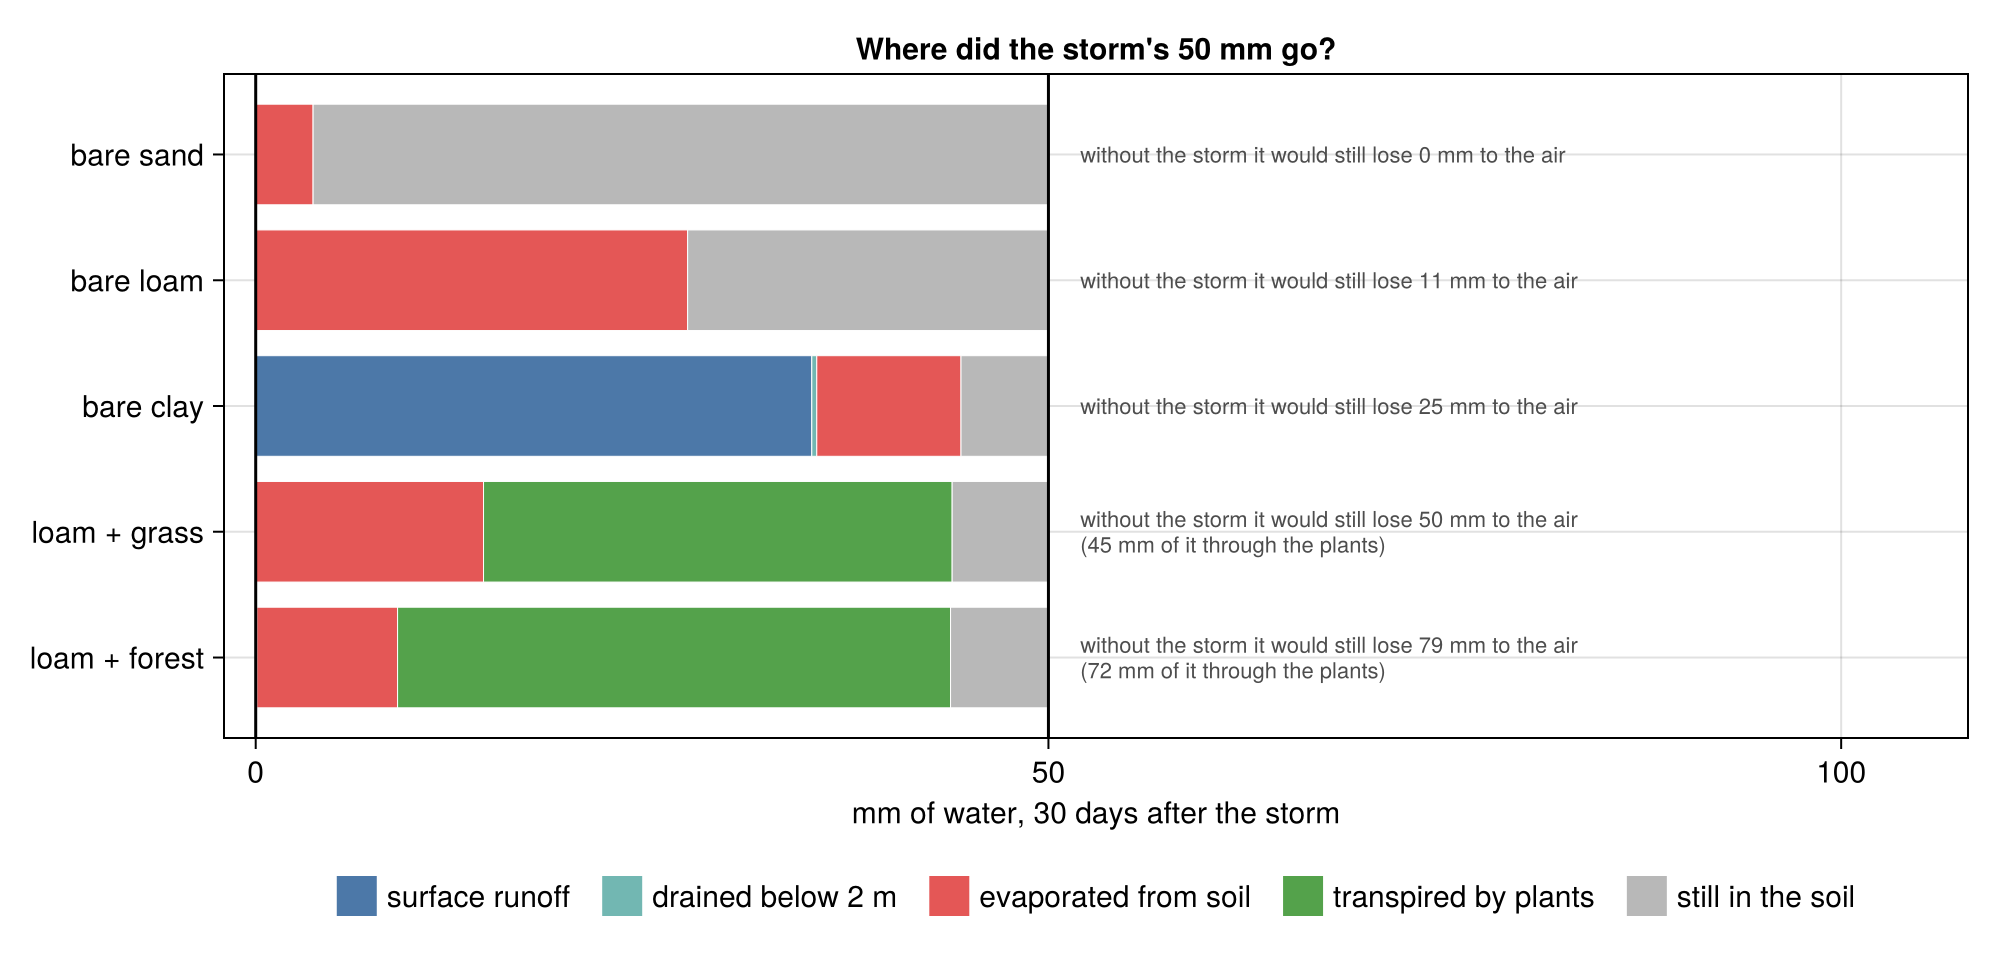
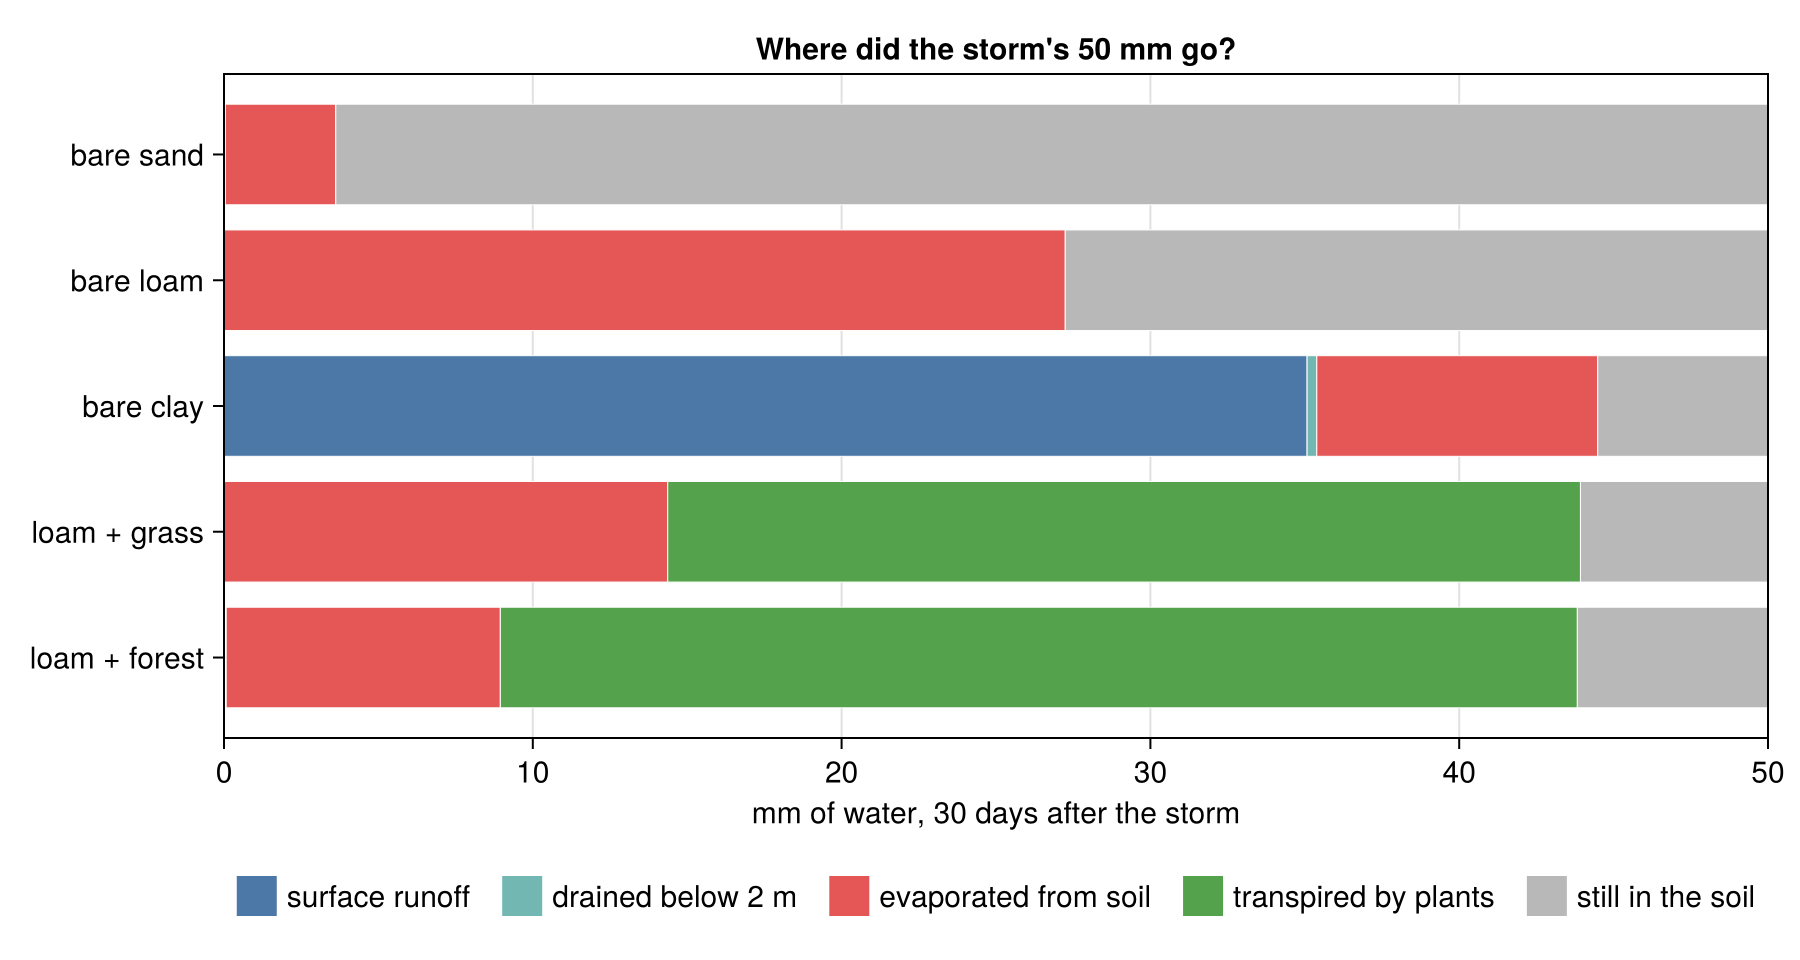
Blog draft: budget figure shows only the storm's 50 mm
Drop the no-storm annotations from the budget figure and set its axis to
0-50 mm; the control numbers stay in the prose. Fix the HTML builder so
caption lead-ins render as bold instead of escaped tags.

Claude-Session: https://claude.ai/code/session_013tJ7zMzUFqybVys5N6Dj6r

diff --git a/experiments/blog/rain_columns/blog.html b/experiments/blog/rain_columns/blog.html
@@ -86,7 +86,7 @@ hr{border:0;border-top:1px solid var(--rule);margin:48px 0;}
 <div class="wide">
 <figure>
   <img src="figs/rain_columns.gif" alt="Animation of five soil columns over 30 days after a 50 mm storm: bare sand, bare loam, bare clay, loam with grass, and loam with a forest. Color shows soil water content; blue above the clay column grows with surface runoff; red arrows show water returned to the air.">
-  <figcaption>&lt;b&gt;The same storm on five columns.&lt;/b&gt; Each column is two meters of soil, colored by water content, simulated hour by hour with ClimaLand for thirty days after a 50 mm storm that falls between midnight and noon on day 1. Blue above a column is water that ran off and has left the column; the bar below is what drained out of the bottom; the red arrow is the water returned to the air by evaporation and transpiration over the last 24 hours. Roots are schematic. The weather is idealized and identical for all five: 19 to 31 °C, 50 percent relative humidity, clear skies once the storm has passed.</figcaption>
+  <figcaption><b>The same storm on five columns.</b> Each column is two meters of soil, colored by water content, simulated hour by hour with ClimaLand for thirty days after a 50 mm storm that falls between midnight and noon on day 1. Blue above a column is water that ran off and has left the column; the bar below is what drained out of the bottom; the red arrow is the water returned to the air by evaporation and transpiration over the last 24 hours. Roots are schematic. The weather is idealized and identical for all five: 19 to 31 °C, 50 percent relative humidity, clear skies once the storm has passed.</figcaption>
 </figure>
 </div>
 
@@ -105,7 +105,7 @@ hr{border:0;border-top:1px solid var(--rule);margin:48px 0;}
 <div class="wide">
 <figure>
   <img src="figs/hovmoller.png" alt="Three panels of soil water content versus depth and time for bare sand, bare loam, and bare clay after a 50 mm storm.">
-  <figcaption>&lt;b&gt;Water content through depth and time&lt;/b&gt; in the three bare columns. Each title gives the fate of the storm's 50 mm (the small remainder drained out of the bottom), computed as the storm run minus the no-storm run. In sand the wetting front races downward and the surface is dry within hours. In loam the front reaches about 40 cm on the first day and then spreads slowly deeper while the surface dries. In clay the surface cannot admit rain at 4 mm per hour, so most of it runs off.</figcaption>
+  <figcaption><b>Water content through depth and time</b> in the three bare columns. Each title gives the fate of the storm's 50 mm (the small remainder drained out of the bottom), computed as the storm run minus the no-storm run. In sand the wetting front races downward and the surface is dry within hours. In loam the front reaches about 40 cm on the first day and then spreads slowly deeper while the surface dries. In clay the surface cannot admit rain at 4 mm per hour, so most of it runs off.</figcaption>
 </figure>
 </div>
 
@@ -128,7 +128,7 @@ hr{border:0;border-top:1px solid var(--rule);margin:48px 0;}
 <div class="wide">
 <figure>
   <img src="figs/et_timeseries.png" alt="Top: daily evaporation plus transpiration for five columns over 30 days. Bottom: daily minimum leaf water potential and daily mean moisture-stress factor for the grass and forest columns.">
-  <figcaption>&lt;b&gt;Restricting the flow.&lt;/b&gt; Top: water returned to the air each day. Bare-soil evaporation drops sharply in the first week; the vegetated columns keep going at 5 to 9 mm per day. Bottom: the daily minimum of the leaf water potential (solid) and the daily mean of the moisture-stress factor (dashed), the multiplier the model applies to photosynthesis and stomatal conductance.</figcaption>
+  <figcaption><b>Restricting the flow.</b> Top: water returned to the air each day. Bare-soil evaporation drops sharply in the first week; the vegetated columns keep going at 5 to 9 mm per day. Bottom: the daily minimum of the leaf water potential (solid) and the daily mean of the moisture-stress factor (dashed), the multiplier the model applies to photosynthesis and stomatal conductance.</figcaption>
 </figure>
 </div>
 
@@ -140,14 +140,14 @@ hr{border:0;border-top:1px solid var(--rule);margin:48px 0;}
 
 <div class="wide">
 <figure>
-  <img src="figs/budget.png" alt="Stacked horizontal bars showing, for each of five columns, how the storm&#x27;s 50 mm was partitioned after 30 days into runoff, drainage, soil evaporation, transpiration, and water still in the soil, with a note on how much each column loses without any storm.">
-  <figcaption>&lt;b&gt;Where did the storm's water go?&lt;/b&gt; The fate of the 50 mm after thirty days in each column, computed as the storm run minus the no-storm run. The gray text gives what the same column loses to the air over the same month when no storm falls at all.</figcaption>
+  <img src="figs/budget.png" alt="Stacked horizontal bars showing, for each of five columns, how the storm&#x27;s 50 mm was partitioned after 30 days into runoff, drainage, soil evaporation, transpiration, and water still in the soil.">
+  <figcaption><b>Where did the storm's water go?</b> The fate of the 50 mm after thirty days in each column, computed as the storm run minus the no-storm run.</figcaption>
 </figure>
 </div>
 
 <div class="wrap">
 
-<p>Under grass and forest the storm is mostly gone within the month: 44 of the 50 mm went back to the air, 30 to 35 of them through the plants. The more striking number is in the gray text. With no rain at all, the forest column transpires 72 mm in a month and the grass 45 mm, drawn from what the soil held before the storm. Vegetation does not wait for rain; it spends the sponge's reserve. Over the thirty days the forest returned 123 mm to the air, more than twice the storm, and finished the month with 48 mm less in its soil than it started with. This is the everyday physics behind two things that sound like paradoxes: that planting trees can dry the ground beneath them, and that a transpiring canopy stays cooler than dry bare ground on a summer afternoon while drying the soil faster.</p>
+<p>Under grass and forest the storm is mostly gone within the month: 44 of the 50 mm went back to the air, 30 to 35 of them through the plants. The more striking number is not in the figure. With no rain at all, the forest column transpires 72 mm in a month and the grass 45 mm, drawn from what the soil held before the storm. Vegetation does not wait for rain; it spends the sponge's reserve. Over the thirty days the forest returned 123 mm to the air, more than twice the storm, and finished the month with 48 mm less in its soil than it started with. This is the everyday physics behind two things that sound like paradoxes: that planting trees can dry the ground beneath them, and that a transpiring canopy stays cooler than dry bare ground on a summer afternoon while drying the soil faster.</p>
 
 <h2>One model for the land, from a column to the globe</h2>
 
@@ -195,7 +195,7 @@ out_forest = run(forest, ["swc", "et"])</code></pre>
 <div class="wide">
 <figure>
   <img src="where_does_the_rain_go.png" alt="Output of the script: a heatmap of soil water content for bare loam, day-30 profiles for bare loam and loam with forest, and a time series of water returned to the air.">
-  <figcaption>&lt;b&gt;What the script produces.&lt;/b&gt; Top right is the take-home in one panel: after a month the bare loam still holds most of what the storm left, as a wet layer between 30 cm and about 1.5 m, to the right of the pre-storm line, because evaporation only dries the top few centimeters. Under the forest the whole profile sits to the left of that line: the roots have taken the storm and more. The bottom panel shows the hourly rhythm behind the daily totals; its rates are hourly means expressed in mm per day, so the afternoon peaks are not daily totals. Change the soil, the leaf area, or the rooting depth, and rerun.</figcaption>
+  <figcaption><b>What the script produces.</b> Top right is the take-home in one panel: after a month the bare loam still holds most of what the storm left, as a wet layer between 30 cm and about 1.5 m, to the right of the pre-storm line, because evaporation only dries the top few centimeters. Under the forest the whole profile sits to the left of that line: the roots have taken the storm and more. The bottom panel shows the hourly rhythm behind the daily totals; its rates are hourly means expressed in mm per day, so the afternoon peaks are not daily totals. Change the soil, the leaf area, or the rooting depth, and rerun.</figcaption>
 </figure>
 </div>
 

diff --git a/experiments/blog/rain_columns/build_html.py b/experiments/blog/rain_columns/build_html.py
@@ -63,10 +63,11 @@ while i < len(lines):
         m = re.match(r"!\[(.*?)\]\((.*?)\)", l); i += 1
         while not lines[i].strip(): i += 1
         cap = lines[i].strip(); i += 1
-        cap = re.sub(r"^\*\*\*(.+?)\*\*(.*)\*$", r"<b>\1</b>\2", cap)
+        cap = re.sub(r"^\*\*\*(.+?)\*\*(.*)\*$", r"**\1**\2", cap)   # bold lead-in, then plain caption text
+        cap = inline(cap).replace("<strong>", "<b>", 1).replace("</strong>", "</b>", 1)
         wrap_close()
         out.append('<div class="wide">\n<figure>\n  <img src="%s" alt="%s">\n  <figcaption>%s</figcaption>\n</figure>\n</div>'
-                   % (m.group(2), html.escape(m.group(1), quote=True), inline(cap)))
+                   % (m.group(2), html.escape(m.group(1), quote=True), cap))
         wrap_open(); continue
     if l.startswith("```"):
         j = i + 1

diff --git a/experiments/blog/rain_columns/blog.md b/experiments/blog/rain_columns/blog.md
@@ -53,11 +53,11 @@ We added two idealized covers to the loam column: a grassland with two square me
 
 In the first week the forest returns nine millimeters a day to the air, more than the bare loam ever manages, because its roots reach water that surface evaporation cannot. That water is not free. By day nine the loam within reach of the roots has dried enough that the forest's leaves reach a tension of two megapascals at midday, and over the next three days the stress factor falls from 0.9 to 0.2. Transpiration drops to what the drying soil can supply, and photosynthesis with it. The grass, on shallower roots, follows a few days later. Both keep returning water vapor to the air for weeks after the bare soils have gone quiet.
 
-![Stacked horizontal bars showing, for each of five columns, how the storm's 50 mm was partitioned after 30 days into runoff, drainage, soil evaporation, transpiration, and water still in the soil, with a note on how much each column loses without any storm.](figs/budget.png)
+![Stacked horizontal bars showing, for each of five columns, how the storm's 50 mm was partitioned after 30 days into runoff, drainage, soil evaporation, transpiration, and water still in the soil.](figs/budget.png)
 
-***Where did the storm's water go?** The fate of the 50 mm after thirty days in each column, computed as the storm run minus the no-storm run. The gray text gives what the same column loses to the air over the same month when no storm falls at all.*
+***Where did the storm's water go?** The fate of the 50 mm after thirty days in each column, computed as the storm run minus the no-storm run.*
 
-Under grass and forest the storm is mostly gone within the month: 44 of the 50 mm went back to the air, 30 to 35 of them through the plants. The more striking number is in the gray text. With no rain at all, the forest column transpires 72 mm in a month and the grass 45 mm, drawn from what the soil held before the storm. Vegetation does not wait for rain; it spends the sponge's reserve. Over the thirty days the forest returned 123 mm to the air, more than twice the storm, and finished the month with 48 mm less in its soil than it started with. This is the everyday physics behind two things that sound like paradoxes: that planting trees can dry the ground beneath them, and that a transpiring canopy stays cooler than dry bare ground on a summer afternoon while drying the soil faster.
+Under grass and forest the storm is mostly gone within the month: 44 of the 50 mm went back to the air, 30 to 35 of them through the plants. The more striking number is not in the figure. With no rain at all, the forest column transpires 72 mm in a month and the grass 45 mm, drawn from what the soil held before the storm. Vegetation does not wait for rain; it spends the sponge's reserve. Over the thirty days the forest returned 123 mm to the air, more than twice the storm, and finished the month with 48 mm less in its soil than it started with. This is the everyday physics behind two things that sound like paradoxes: that planting trees can dry the ground beneath them, and that a transpiring canopy stays cooler than dry bare ground on a summer afternoon while drying the soil faster.
 
 ## One model for the land, from a column to the globe
 
